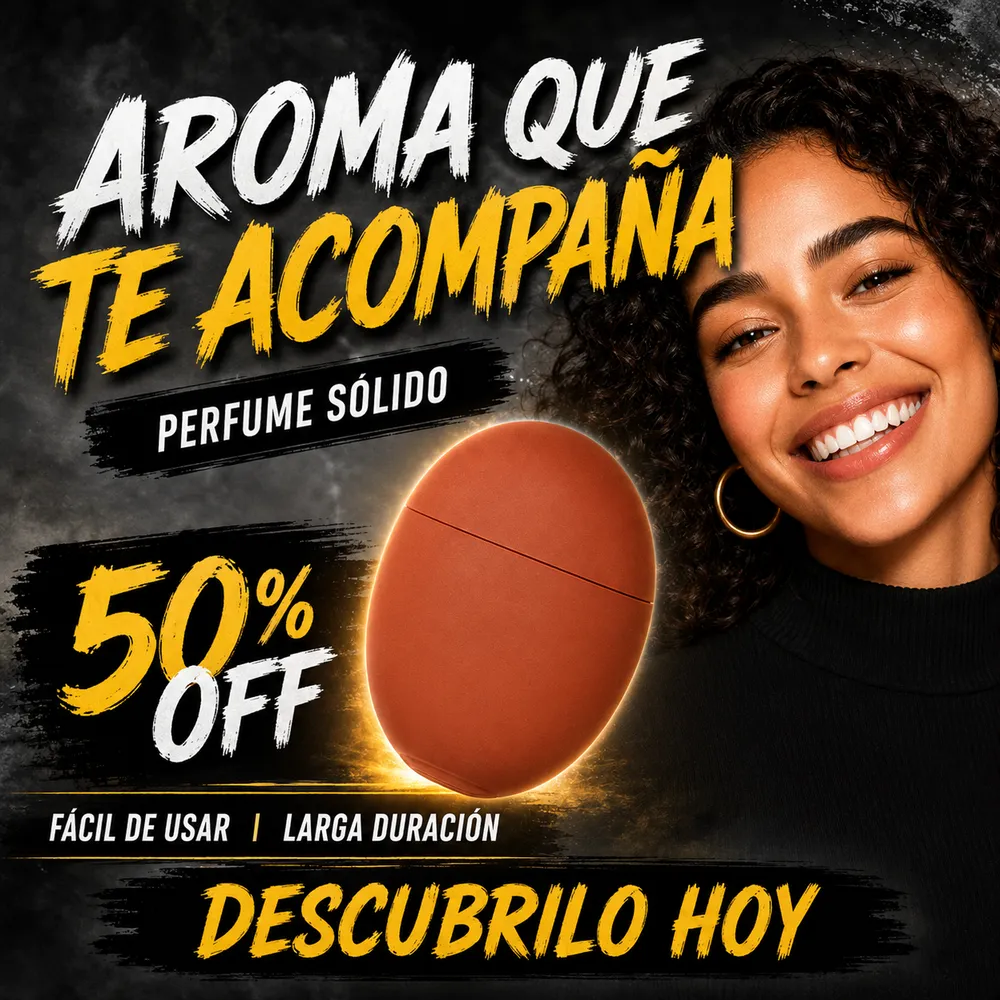
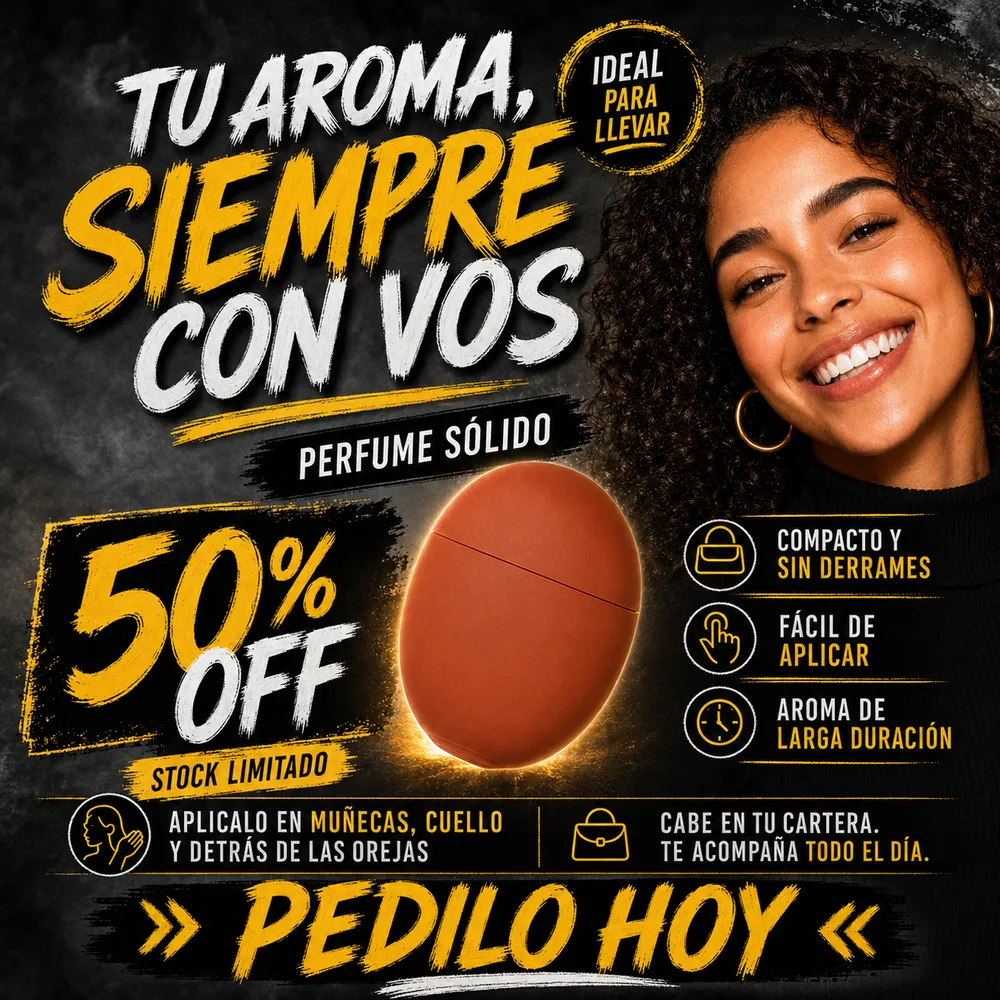
Versus: prepara al lector con intro + etiquetas por imagen; imagen generica actualizada

diff --git a/index.html b/index.html
@@ -54,6 +54,7 @@
     .difference-copy p{font-size:17px;line-height:1.65;color:var(--muted)}.difference-copy ul{list-style:none;padding:0;margin:22px 0 0}.difference-copy li{padding:11px 0;border-top:1px solid var(--line);display:flex;gap:11px;font-weight:600}.difference-copy li:before{content:"✓";color:#4e6c54}
     .difference-proof{border-radius:28px;background:var(--forest);color:#fff;padding:42px;display:flex;flex-direction:column;justify-content:space-between;min-height:580px}.difference-proof .big{font:400 clamp(58px,8vw,100px)/.82 "Instrument Serif";letter-spacing:-.055em}.difference-proof .big em{color:#b9c9b9}.difference-proof p{color:#c5d0c7;max-width:430px;line-height:1.6}.difference-proof-grid{display:grid;grid-template-columns:1fr 1fr;gap:10px}.proof-cell{border-top:1px solid rgba(255,255,255,.22);padding-top:14px}.proof-cell b{display:block;font-size:24px}.proof-cell span{font-size:11px;color:#aab9ae}
     .versus-grid{display:grid;grid-template-columns:1fr 56px 1fr;gap:18px;align-items:center}.versus-card{background:var(--white);border-radius:30px;padding:12px;box-shadow:var(--shadow)}.versus-image{overflow:hidden;border-radius:22px;background:#ddd}.versus-image button{display:block;width:100%;padding:0;border:0;background:transparent;cursor:zoom-in}.versus-image img{aspect-ratio:1;object-fit:contain}.versus-copy{padding:20px 16px 16px}.versus-copy span{font:500 10px "DM Mono";letter-spacing:.1em;text-transform:uppercase;color:var(--muted)}.versus-copy h3{font:400 36px/1 "Instrument Serif";margin:9px 0}.versus-copy p{color:var(--muted);line-height:1.55;margin:0}.versus-badge{width:56px;height:56px;border-radius:50%;display:grid;place-items:center;background:var(--forest);color:#fff;font:500 12px "DM Mono";z-index:2}
+    .versus-tag{display:inline-block;margin:4px 0 10px 6px;font:600 10px "DM Mono";letter-spacing:.08em;text-transform:uppercase;padding:6px 12px;border-radius:99px}.versus-tag.bad{color:var(--muted);background:rgba(23,23,19,.05);border:1px solid var(--line)}.versus-tag.good{color:#efe9df;background:var(--forest)}
 
     .results{padding-top:80px}.result-head{text-align:center;max-width:830px;margin:0 auto 44px}.result-head h2{font:400 clamp(48px,6vw,78px)/.94 "Instrument Serif";letter-spacing:-.045em;margin:16px 0}.result-head p{font-size:18px;color:var(--muted);line-height:1.6}
     .result-grid{display:grid;grid-template-columns:repeat(4,1fr);gap:12px}.result-card{overflow:hidden;border-radius:24px;background:rgba(255,255,255,.5);border:1px solid rgba(23,23,19,.09)}.result-card img{aspect-ratio:1;object-fit:contain;background:#ded8cd;transition:transform .5s ease}.result-card:hover img{transform:scale(1.012)}
@@ -292,16 +293,18 @@
     <section class="difference">
       <div class="shell">
         <div class="section-intro reveal">
-          <span class="eyebrow muted">Mismo producto · dos resultados</span>
-          <div><h2>Uno se ignora. El otro se siente como <em>marca.</em></h2><p>La diferencia no es agregar más texto, más colores o más efectos. Es saber qué mostrar, qué decir y qué eliminar para que el anuncio venda sin parecer desesperado.</p></div>
+          <span class="eyebrow muted">El mismo producto · dos anuncios</span>
+          <div><h2>Uno se ignora. El otro se siente como <em>marca.</em></h2><p>Mirá los dos. <b>El primero</b> es el típico anuncio saturado que scrolleás sin pensar. <b>El segundo</b> es el mismo producto, pero con dirección visual. La diferencia no es más texto ni más colores: es saber qué mostrar y qué eliminar.</p></div>
         </div>
         <div class="versus-grid reveal">
           <article class="versus-card">
+            <span class="versus-tag bad">El anuncio genérico</span>
             <div class="versus-image"><button class="zoomable" data-full="assets/prompt-ads/05-comparacion-anuncio-generico.webp" aria-label="Ampliar anuncio genérico"><img src="assets/prompt-ads/05-comparacion-anuncio-generico.webp" width="1254" height="1254" loading="lazy" alt="Anuncio genérico saturado con demasiado texto"></button></div>
             <div class="versus-copy"><span>Sin dirección · genérico</span><h3>Mucho ruido. Cero deseo.</h3><p>Promesas vacías, texto por todas partes y una imagen que parece pedir desesperadamente un clic.</p></div>
           </article>
           <div class="versus-badge">VS.</div>
           <article class="versus-card">
+            <span class="versus-tag good">Con Prompt Ads</span>
             <div class="versus-image"><button class="zoomable" data-full="assets/prompt-ads/06-comparacion-anuncio-premium.webp" aria-label="Ampliar anuncio premium"><img src="assets/prompt-ads/06-comparacion-anuncio-premium.webp" width="1254" height="1254" loading="lazy" alt="Anuncio premium claro del mismo producto"></button></div>
             <div class="versus-copy"><span>Con dirección · premium</span><h3>Una idea. Una jerarquía. Una razón para mirar.</h3><p>El mismo producto se siente más confiable, más valioso y mucho más fácil de recordar.</p></div>
           </article>
